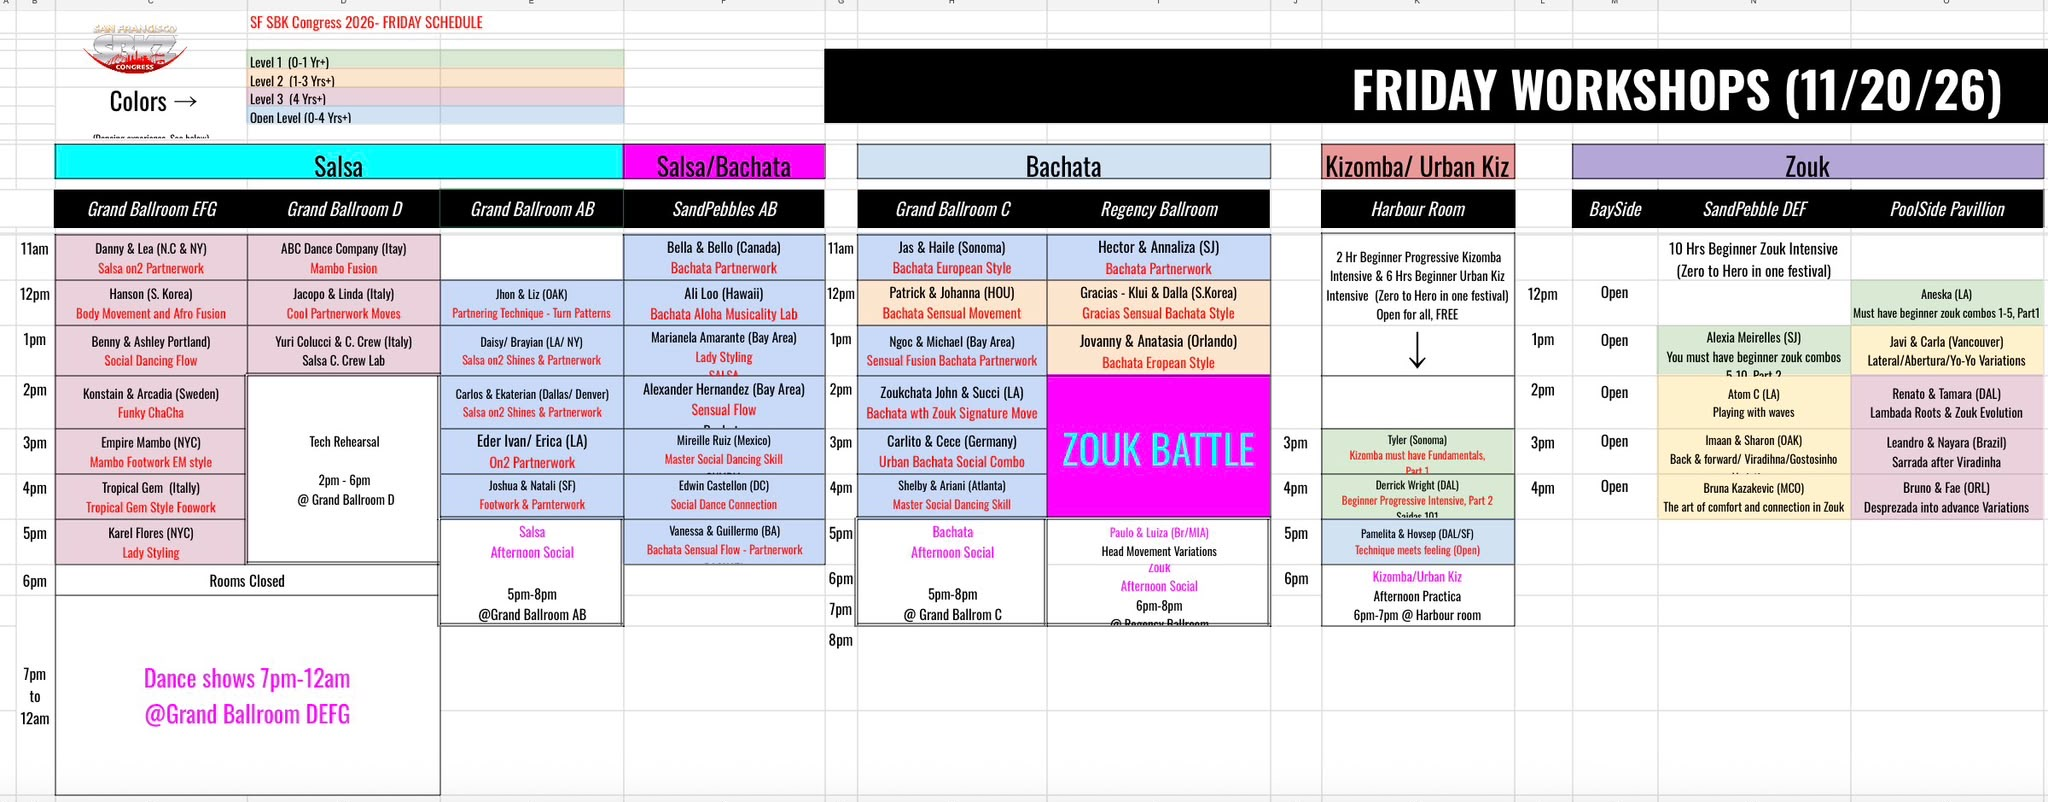
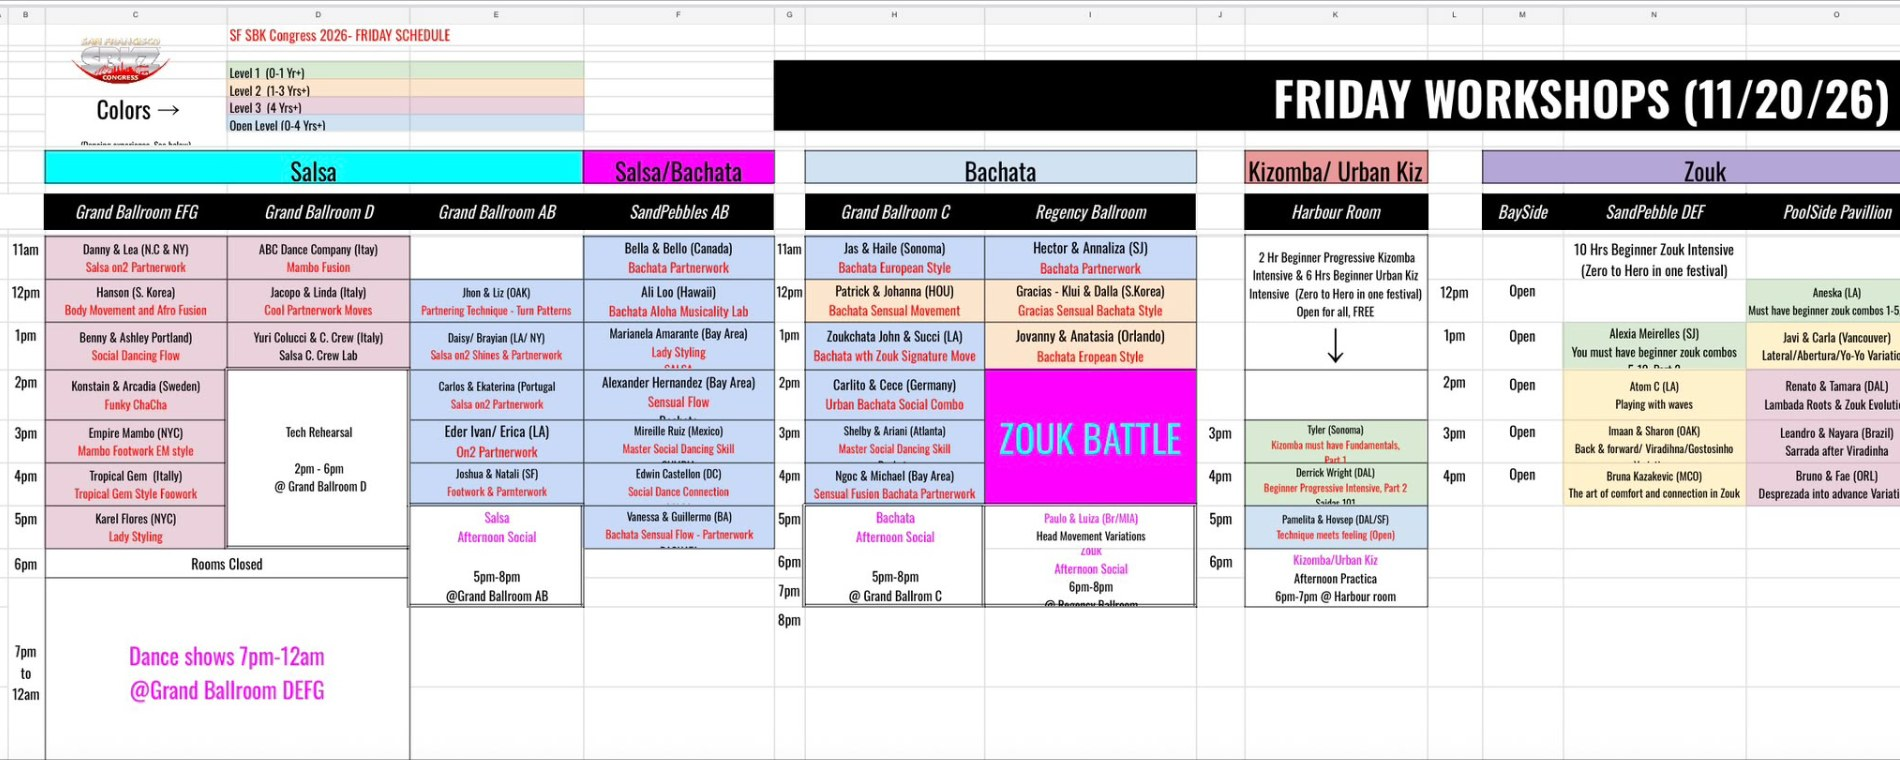
Update the workshop grid to their Nov 11 post
Carlitos & Cece's Friday class moves from 3 PM to 2 PM, so the hero
chip, the Friday card and the rehearsal note follow. Saturday salsa
gets a reshuffle (Bozzy and the 10 AM Shelby & Ariani are off; Melisa
Katilmis, Emellie Andagan and Beto & Sade's kiz intensive are on).
Sunday 2 PM in EFG is Benny / Ashley now. The linked grid images are
the new ones.

Claude-Session: https://claude.ai/code/session_016sqRktwx6A9FQGiS9zq37r

diff --git a/index.html b/index.html
@@ -466,10 +466,10 @@
   </div>
   <p class="fest-lead rv">Salsa, bachata, kizomba and Brazilian zouk, all under one roof at the Hyatt Regency SFO. Workshops from 10 AM, afternoon socials, shows every night, and the floor stays open until roughly 7 in the morning. Artists and DJs fly in from Europe, Asia and Latin America. Three competitions run alongside it.</p>
   <div class="carlitos rv">
-   <p><b>The man who rated the room is teaching in it.</b> Carlitos and Cece have two slots, both in Grand Ballroom C. Friday at 3 PM it's Urban Bachata Social Combo, and Sunday at 10 AM it's Bachata Sensual Partnerwork. He taught in Waikiki too, so he's seen both floors and the 6-8 is a real read.</p>
+   <p><b>The man who rated the room is teaching in it.</b> Carlitos and Cece have two slots, both in Grand Ballroom C. Friday at 2 PM it's Urban Bachata Social Combo, and Sunday at 10 AM it's Bachata Sensual Partnerwork. He taught in Waikiki too, so he's seen both floors and the 6-8 is a real read.</p>
   </div>
   <div class="chips rv">
-   <span class="chip">Carlitos &amp; Cece &middot; Fri 3 PM, Sun 10 AM</span>
+   <span class="chip">Carlitos &amp; Cece &middot; Fri 2 PM, Sun 10 AM</span>
    <span class="chip">Karel Flores &middot; 10-hour bootcamp</span>
    <span class="chip">Salsanama &middot; Tropical Gem, 2nd year</span>
    <span class="chip">Bachata Ultimate Showdown &middot; Sunday</span>
@@ -582,7 +582,7 @@
   <div class="open rv">
    <div class="oh">Still open</div>
    <ol class="olist">
-    <li><b>Get my rehearsal slot.</b> Rehearsal runs 2 to 6 PM every day in Grand Ballroom D, and the pass is bought, so I can ask for one. If mine lands Friday it runs into Carlitos and Cece at 3.</li>
+    <li><b>Get my rehearsal slot.</b> Rehearsal runs 2 to 6 PM every day in Grand Ballroom D, and the pass is bought, so I can ask for one. If mine lands Friday it runs into Carlitos and Cece at 2.</li>
     <li><b>Add the Thursday pre-party, $26.60.</b> Doors at 9 PM, three rooms, and it's the first read the floor gets on me.</li>
     <li><b>Ask the Hyatt to move Friday onto the group rate if a block room opens.</b> Friday is $391 against $163 the other nights. Switching it saves about $293 with tax and the destination fee.</li>
     <li><b>Room share or solo.</b> It&rsquo;s 2 Queen Beds, so a roommate cuts the hotel to about $517.</li>
@@ -662,7 +662,7 @@
     <div class="dt">Nov 20</div>
     <ul>
      <li>Workshops 11 AM to 6 PM</li>
-     <li>Carlitos &amp; Cece, 3 PM<em>Urban Bachata Social Combo, Grand Ballroom C</em></li>
+     <li>Carlitos &amp; Cece, 2 PM<em>Urban Bachata Social Combo, Grand Ballroom C</em></li>
      <li>Zouk Battle, 2 to 5 PM<em>Regency Ballroom</em></li>
      <li>Afternoon socials, 5 to 8 PM<em>Bachata in Grand C, salsa in Grand AB</em></li>
      <li>Shows, 7 PM to midnight<em>Grand Ballroom DEFG</em></li>
@@ -750,16 +750,16 @@
 <div class="c k-L3" style="grid-area:5/3/6/4"><b>Yuri Colucci &amp; C. Crew (Italy)</b><span>Salsa C. Crew Lab</span><i class="rm">Grand Ballroom D &middot; Salsa</i></div>
 <div class="c k-Op" style="grid-area:5/4/6/5"><b>Daisy / Brayian (LA / NY)</b><span>Salsa On2 Shines &amp; Partnerwork</span><i class="rm">Grand Ballroom AB &middot; Salsa</i></div>
 <div class="c k-Op" style="grid-area:5/5/6/6"><b>Marianela Amarante (Bay Area)</b><span>Lady Styling, salsa</span><i class="rm">SandPebbles AB &middot; Salsa &amp; Bachata</i></div>
-<div class="c k-Op" style="grid-area:5/6/6/7"><b>Ngoc &amp; Michael (Bay Area)</b><span>Sensual Fusion Bachata Partnerwork</span><i class="rm">Grand Ballroom C &middot; Bachata</i></div>
+<div class="c k-Op" style="grid-area:5/6/6/7"><b>Zoukchata John &amp; Succi (LA)</b><span>Bachata with Zouk Signature Move</span><i class="rm">Grand Ballroom C &middot; Bachata</i></div>
 <div class="c k-L2" style="grid-area:5/7/6/8"><b>Jovanny &amp; Anatasia (Orlando)</b><span>Bachata European Style</span><i class="rm">Regency Ballroom &middot; Bachata</i></div>
 <div class="c k-L1" style="grid-area:5/10/6/11"><b>Alexia Meirelles (SJ)</b><span>Must have beginner zouk combos 5-10, Part 2</span><i class="rm">SandPebble DEF &middot; Zouk</i></div>
 <div class="c k-U" style="grid-area:5/11/6/12"><b>Javi &amp; Carla (Vancouver)</b><span>Lateral / Abertura / Yo-Yo Variations</span><i class="rm">PoolSide Pavilion &middot; Zouk</i></div>
 <div class="wg-t" style="grid-area:6/1/7/2">2 PM</div>
 <div class="c k-L3" style="grid-area:6/2/7/3"><b>Konstain &amp; Arcadia (Sweden)</b><span>Funky ChaCha</span><i class="rm">Grand Ballroom EFG &middot; Salsa</i></div>
 <div class="c k-reh" style="grid-area:6/3/10/4"><b>Tech rehearsal</b><span>2 to 6 PM</span><i class="rm">Grand Ballroom D &middot; Salsa</i></div>
-<div class="c k-Op" style="grid-area:6/4/7/5"><b>Carlos &amp; Ekaterian (Dallas / Denver)</b><span>Salsa On2 Shines &amp; Partnerwork</span><i class="rm">Grand Ballroom AB &middot; Salsa</i></div>
+<div class="c k-Op" style="grid-area:6/4/7/5"><b>Carlos &amp; Ekaterina (Portugal)</b><span>Salsa On2 Partnerwork</span><i class="rm">Grand Ballroom AB &middot; Salsa</i></div>
 <div class="c k-Op" style="grid-area:6/5/7/6"><b>Alexander Hernandez (Bay Area)</b><span>Sensual Flow, bachata</span><i class="rm">SandPebbles AB &middot; Salsa &amp; Bachata</i></div>
-<div class="c k-Op" style="grid-area:6/6/7/7"><b>Zoukchata John &amp; Succi (LA)</b><span>Bachata with Zouk Signature Move</span><i class="rm">Grand Ballroom C &middot; Bachata</i></div>
+<div class="c k-mine" style="grid-area:6/6/7/7"><b>Carlitos &amp; Cece (Germany)</b><span>Urban Bachata Social Combo</span><i class="rm">Grand Ballroom C &middot; Bachata</i></div>
 <div class="c k-comp" style="grid-area:6/7/9/8"><b>Zouk Battle</b><span>2 to 5 PM</span><i class="rm">Regency Ballroom &middot; Bachata</i></div>
 <div class="c k-U" style="grid-area:6/10/7/11"><b>Atom C (LA)</b><span>Playing with Waves</span><i class="rm">SandPebble DEF &middot; Zouk</i></div>
 <div class="c k-L3" style="grid-area:6/11/7/12"><b>Renato &amp; Tamara (DAL)</b><span>Lambada Roots &amp; Zouk Evolution</span><i class="rm">PoolSide Pavilion &middot; Zouk</i></div>
@@ -767,7 +767,7 @@
 <div class="c k-L3" style="grid-area:7/2/8/3"><b>Empire Mambo (NYC)</b><span>Mambo Footwork, EM style</span><i class="rm">Grand Ballroom EFG &middot; Salsa</i></div>
 <div class="c k-Op" style="grid-area:7/4/8/5"><b>Eder Ivan / Erica (LA)</b><span>On2 Partnerwork</span><i class="rm">Grand Ballroom AB &middot; Salsa</i></div>
 <div class="c k-Op" style="grid-area:7/5/8/6"><b>Mireille Ruiz (Mexico)</b><span>Master Social Dancing Skill</span><i class="rm">SandPebbles AB &middot; Salsa &amp; Bachata</i></div>
-<div class="c k-mine" style="grid-area:7/6/8/7"><b>Carlitos &amp; Cece (Germany)</b><span>Urban Bachata Social Combo</span><i class="rm">Grand Ballroom C &middot; Bachata</i></div>
+<div class="c k-Op" style="grid-area:7/6/8/7"><b>Shelby &amp; Ariani (Atlanta)</b><span>Master Social Dancing Skill</span><i class="rm">Grand Ballroom C &middot; Bachata</i></div>
 <div class="c k-L1" style="grid-area:7/8/8/9"><b>Tyler (Sonoma)</b><span>Kizomba must-have Fundamentals, Part 1</span><i class="rm">Harbour Room &middot; Kizomba</i></div>
 <div class="c k-U" style="grid-area:7/10/8/11"><b>Imaan &amp; Sharon (OAK)</b><span>Back &amp; Forward / Viradinha / Gostosinho</span><i class="rm">SandPebble DEF &middot; Zouk</i></div>
 <div class="c k-L3" style="grid-area:7/11/8/12"><b>Leandro &amp; Nayara (Brazil)</b><span>Sarrada after Viradinha</span><i class="rm">PoolSide Pavilion &middot; Zouk</i></div>
@@ -775,7 +775,7 @@
 <div class="c k-L3" style="grid-area:8/2/9/3"><b>Tropical Gem (Italy)</b><span>Tropical Gem Style Footwork</span><i class="rm">Grand Ballroom EFG &middot; Salsa</i></div>
 <div class="c k-Op" style="grid-area:8/4/9/5"><b>Joshua &amp; Natali (SF)</b><span>Footwork &amp; Partnerwork</span><i class="rm">Grand Ballroom AB &middot; Salsa</i></div>
 <div class="c k-Op" style="grid-area:8/5/9/6"><b>Edwin Castellon (DC)</b><span>Social Dance Connection</span><i class="rm">SandPebbles AB &middot; Salsa &amp; Bachata</i></div>
-<div class="c k-Op" style="grid-area:8/6/9/7"><b>Shelby &amp; Ariani (Atlanta)</b><span>Master Social Dancing Skill</span><i class="rm">Grand Ballroom C &middot; Bachata</i></div>
+<div class="c k-Op" style="grid-area:8/6/9/7"><b>Ngoc &amp; Michael (Bay Area)</b><span>Sensual Fusion Bachata Partnerwork</span><i class="rm">Grand Ballroom C &middot; Bachata</i></div>
 <div class="c k-L1" style="grid-area:8/8/9/9"><b>Derrick Wright (DAL)</b><span>Beginner Progressive Intensive, Part 2. Saidas 101</span><i class="rm">Harbour Room &middot; Kizomba</i></div>
 <div class="c k-U" style="grid-area:8/10/9/11"><b>Bruna Kazakevic (MCO)</b><span>The Art of Comfort and Connection in Zouk</span><i class="rm">SandPebble DEF &middot; Zouk</i></div>
 <div class="c k-L3" style="grid-area:8/11/9/12"><b>Bruno &amp; Fae (ORL)</b><span>Desprezada into Advanced Variations</span><i class="rm">PoolSide Pavilion &middot; Zouk</i></div>
@@ -811,8 +811,8 @@
 <div class="wg-r" style="grid-area:2/11/3/12">PoolSide Pavilion</div>
 <div class="wg-t" style="grid-area:3/1/4/2">10 AM</div>
 <div class="c k-L2" style="grid-area:3/2/4/3"><b>Jeio (Korea)</b><span>Afro Fusion Shines</span><i class="rm">Grand Ballroom EFG &middot; Salsa</i></div>
-<div class="c k-L2" style="grid-area:3/3/4/4"><b>Iroko (Tampa)</b><span>Footwork &amp; Body Movement</span><i class="rm">Grand Ballroom D &middot; Salsa</i></div>
-<div class="c k-Op" style="grid-area:3/5/4/6"><b>Shelby &amp; Ariani (Atlanta)</b><span>Master Social Dancing Skill, bachata</span><i class="rm">SandPebbles AB &middot; Salsa &amp; Bachata</i></div>
+<div class="c k-Op" style="grid-area:3/3/4/4"><b>Cristian Vergari (Italy)</b><span>Mambo Fusion &amp; Body Movement</span><i class="rm">Grand Ballroom D &middot; Salsa</i></div>
+<div class="c k-Op" style="grid-area:3/4/4/5"><b>Eric / Yolieth (Mexico)</b><span>Partnering Technique</span><i class="rm">Grand Ballroom AB &middot; Salsa</i></div>
 <div class="c k-Op" style="grid-area:3/6/4/7"><b>Johnathan &amp; Jeniffer (SA)</b><span>Esta Noche Footwork &amp; Partnerwork</span><i class="rm">Grand Ballroom C &middot; Bachata</i></div>
 <div class="c k-L2" style="grid-area:3/7/4/8"><b>Mike &amp; Erica (LA)</b><span>Urban Bachata (FT &amp; Partnerwork)</span><i class="rm">Regency Ballroom &middot; Bachata</i></div>
 <div class="c k-x" style="grid-area:3/9/5/10"><b>10 hr beginner zouk intensive</b><span>Zero to Hero in one festival. Open for all, free.</span><i class="rm">BaySide &middot; Zouk</i></div>
@@ -825,7 +825,7 @@
 <div class="c k-L2" style="grid-area:4/7/5/8"><b>Demetrio &amp; Danila (Italy)</b><span>Bachata Footwork &amp; Partnerwork</span><i class="rm">Regency Ballroom &middot; Bachata</i></div>
 <div class="wg-t" style="grid-area:5/1/6/2">12 PM</div>
 <div class="c k-L3" style="grid-area:5/2/6/3"><b>Diego &amp; Yaritza (NYC)</b><span>Palladium Mambo Shines</span><i class="rm">Grand Ballroom EFG &middot; Salsa</i></div>
-<div class="c k-Op" style="grid-area:5/3/6/4"><b>Hanson &amp; Hwara (Korea)</b><span>Salsa Footwork &amp; Combo</span><i class="rm">Grand Ballroom D &middot; Salsa</i></div>
+<div class="c k-L3" style="grid-area:5/3/6/4"><b>Inwoo (S. Korea)</b><span>Mambo Footwork</span><i class="rm">Grand Ballroom D &middot; Salsa</i></div>
 <div class="c k-Op" style="grid-area:5/4/6/5"><b>Amelia Munoz (Los Angeles)</b><span>Lady Styling</span><i class="rm">Grand Ballroom AB &middot; Salsa</i></div>
 <div class="c k-L2" style="grid-area:5/5/6/6"><b>David Princess / Jayven (LA)</b><span>Footwork / Partnerwork On2</span><i class="rm">SandPebbles AB &middot; Salsa &amp; Bachata</i></div>
 <div class="c k-L2" style="grid-area:5/6/6/7"><b>Gracias: Klui &amp; Dalla (S. Korea)</b><span>Gracias Sensual Bachata Style</span><i class="rm">Grand Ballroom C &middot; Bachata</i></div>
@@ -833,8 +833,8 @@
 <div class="c k-n" style="grid-area:5/10/6/11"><b>Richele Marie (SD)</b><span>Must-have combos for new zouk dancers</span><i class="rm">SandPebble DEF &middot; Zouk</i></div>
 <div class="c k-U" style="grid-area:5/11/6/12"><b>Alain &amp; Elijah (WI)</b><span>Intro to Head Movement &amp; Piao (open level)</span><i class="rm">PoolSide Pavilion &middot; Zouk</i></div>
 <div class="wg-t" style="grid-area:6/1/7/2">1 PM</div>
-<div class="c k-L2" style="grid-area:6/2/7/3"><b>Yolieth Baranggan (Texas)</b><span>Salsa Fusion</span><i class="rm">Grand Ballroom EFG &middot; Salsa</i></div>
-<div class="c k-L3" style="grid-area:6/3/7/4"><b>Inwoo (S. Korea)</b><span>Mambo Footwork</span><i class="rm">Grand Ballroom D &middot; Salsa</i></div>
+<div class="c k-Op" style="grid-area:6/2/7/3"><b>Hanson &amp; Hwara (Korea)</b><span>Salsa Footwork &amp; Combo</span><i class="rm">Grand Ballroom EFG &middot; Salsa</i></div>
+<div class="c k-L2" style="grid-area:6/3/7/4"><b>Iroko (Tampa)</b><span>Footwork &amp; Body Movement</span><i class="rm">Grand Ballroom D &middot; Salsa</i></div>
 <div class="c k-Op" style="grid-area:6/4/7/5"><b>Ilias / Sophia (Greece / Morocco)</b><span>Social Dancing Skill</span><i class="rm">Grand Ballroom AB &middot; Salsa</i></div>
 <div class="c k-Op" style="grid-area:6/5/7/6"><b>Joel / Lucia, Motion On2 (LA)</b><span>Bachata Moderna Footwork</span><i class="rm">SandPebbles AB &middot; Salsa &amp; Bachata</i></div>
 <div class="c k-L2" style="grid-area:6/6/7/7"><b>Jovanny &amp; Anatasia (Orlando)</b><span>Bachata Sensual, Sensual Movement</span><i class="rm">Grand Ballroom C &middot; Bachata</i></div>
@@ -844,20 +844,20 @@
 <div class="c k-U" style="grid-area:6/10/7/11"><b>Bruno &amp; Fae (ORL)</b><span>Intro to Toalha, Part 1</span><i class="rm">SandPebble DEF &middot; Zouk</i></div>
 <div class="c k-L3" style="grid-area:6/11/7/12"><b>Evelyn &amp; Derrick (SF)</b><span>Circular Patterns &amp; Space Navigation</span><i class="rm">PoolSide Pavilion &middot; Zouk</i></div>
 <div class="wg-t" style="grid-area:7/1/8/2">2 PM</div>
-<div class="c k-L3" style="grid-area:7/2/8/3"><b>Jacopo &amp; Linda (Italy)</b><span>Mambo with Afro Shines</span><i class="rm">Grand Ballroom EFG &middot; Salsa</i></div>
+<div class="c k-L2" style="grid-area:7/2/8/3"><b>Melisa Katilmis (Turkey)</b><span>Salsa Fusion</span><i class="rm">Grand Ballroom EFG &middot; Salsa</i></div>
 <div class="c k-reh" style="grid-area:7/3/11/4"><b>Tech rehearsal</b><span>2 to 6 PM</span><i class="rm">Grand Ballroom D &middot; Salsa</i></div>
 <div class="c k-Op" style="grid-area:7/4/8/5"><b>Bryant &amp; Anita (PDX)</b><span>Salsa Romantica Style</span><i class="rm">Grand Ballroom AB &middot; Salsa</i></div>
-<div class="c k-Op" style="grid-area:7/5/8/6"><b>Ashwin &amp; Kristen (ATL)</b><span>Bachata Fusion</span><i class="rm">SandPebbles AB &middot; Salsa &amp; Bachata</i></div>
+<div class="c k-Op" style="grid-area:7/5/8/6"><b>Emellie Andagan (Sac)</b><span>Salsa On2</span><i class="rm">SandPebbles AB &middot; Salsa &amp; Bachata</i></div>
 <div class="c k-Op" style="grid-area:7/6/8/7"><b>Roxy Vega (Mexico)</b><span>Fun Bachata Choreo</span><i class="rm">Grand Ballroom C &middot; Bachata</i></div>
 <div class="c k-comp" style="grid-area:7/7/10/8"><b>Salsanama Solo</b><span>2 to 5 PM</span><i class="rm">Regency Ballroom &middot; Bachata</i></div>
-<div class="c k-L1" style="grid-area:7/8/8/9"><b>Kizomba intensive</b><span>Teacher&#x27;s name is covered on their screenshot</span><i class="rm">Harbour Room &middot; Kizomba</i></div>
+<div class="c k-L1" style="grid-area:7/8/8/9"><b>Beto &amp; Sade (MEX / US)</b><span>Kizomba Fundamentals for Social Dancing (intensive)</span><i class="rm">Harbour Room &middot; Kizomba</i></div>
 <div class="c k-L1" style="grid-area:7/9/8/10"><b>Aneska (LA)</b><span>Beginner Intensive Series: Soltinho / Variations</span><i class="rm">BaySide &middot; Zouk</i></div>
 <div class="c k-U" style="grid-area:7/10/8/11"><b>Evelyn &amp; Derrick (SF)</b><span>Make It Flow in Zouk</span><i class="rm">SandPebble DEF &middot; Zouk</i></div>
 <div class="c k-L3" style="grid-area:7/11/8/12"><b>Paulo &amp; Luiza (Br / MIA)</b><span>Head Movement Mechanics for Comfort</span><i class="rm">PoolSide Pavilion &middot; Zouk</i></div>
 <div class="wg-t" style="grid-area:8/1/9/2">3 PM</div>
-<div class="c k-L3" style="grid-area:8/2/9/3"><b>Bozzy Brother (Italy)</b><span>Salsa Explosion</span><i class="rm">Grand Ballroom EFG &middot; Salsa</i></div>
+<div class="c k-L3" style="grid-area:8/2/9/3"><b>Jacopo &amp; Linda (Italy)</b><span>Mambo with Afro Shines</span><i class="rm">Grand Ballroom EFG &middot; Salsa</i></div>
 <div class="c k-Op" style="grid-area:8/4/9/5"><b>Eder Ivan / Erica Reyna (LA)</b><span>On2 LA Style (FT &amp; Partnerwork)</span><i class="rm">Grand Ballroom AB &middot; Salsa</i></div>
-<div class="c k-Op" style="grid-area:8/5/9/6"><b>Eric / Yolieth (Mexico)</b><span>Partnering Technique</span><i class="rm">SandPebbles AB &middot; Salsa &amp; Bachata</i></div>
+<div class="c k-Op" style="grid-area:8/5/9/6"><b>Ashwin &amp; Kristen (ATL)</b><span>Bachata Fusion</span><i class="rm">SandPebbles AB &middot; Salsa &amp; Bachata</i></div>
 <div class="c k-L2" style="grid-area:8/6/9/7"><b>Jahaira &amp; Angelica (OAK)</b><span>Killer Bachata Footwork</span><i class="rm">Grand Ballroom C &middot; Bachata</i></div>
 <div class="c k-L2" style="grid-area:8/8/9/9"><b>Derrick Wright (DAL)</b><span>Beginner Progressive Intensive, Pivots and Turns</span><i class="rm">Harbour Room &middot; Kizomba</i></div>
 <div class="c k-L1" style="grid-area:8/9/9/10"><b>Renato &amp; Tamara (DAL)</b><span>Beginner Intensive Series: Gostosinho Variations</span><i class="rm">BaySide &middot; Zouk</i></div>
@@ -873,7 +873,7 @@
 <div class="c k-U" style="grid-area:9/10/10/11"><b>Bruna Kazakevic (MCO)</b><span>Body Isolation &amp; Fluid Movement</span><i class="rm">SandPebble DEF &middot; Zouk</i></div>
 <div class="c k-L3" style="grid-area:9/11/10/12"><b>Leandro &amp; Nayara (Brazil)</b><span>Spin Techniques</span><i class="rm">PoolSide Pavilion &middot; Zouk</i></div>
 <div class="wg-t" style="grid-area:10/1/11/2">5 PM</div>
-<div class="c k-Op" style="grid-area:10/2/11/3"><b>Cristian Vergari (Italy)</b><span>Mambo Fusion &amp; Body Movement</span><i class="rm">Grand Ballroom EFG &middot; Salsa</i></div>
+<div class="c k-L2" style="grid-area:10/2/11/3"><b>Yolieth Baranggan (Texas)</b><span>Salsa Fusion</span><i class="rm">Grand Ballroom EFG &middot; Salsa</i></div>
 <div class="c k-soc" style="grid-area:10/4/13/5"><b>Salsa afternoon social</b><span>5 to 8 PM</span><i class="rm">Grand Ballroom AB &middot; Salsa</i></div>
 <div class="c k-Op" style="grid-area:10/5/11/6"><b>Jewel Huges (Phoenix)</b><span>Lady Styling, salsa</span><i class="rm">SandPebbles AB &middot; Salsa &amp; Bachata</i></div>
 <div class="c k-soc" style="grid-area:10/6/13/7"><b>Bachata afternoon social</b><span>5 to 8 PM</span><i class="rm">Grand Ballroom C &middot; Bachata</i></div>
@@ -933,7 +933,7 @@
 <div class="c k-U" style="grid-area:6/10/7/11"><b>Evelyn &amp; Derrick (SF)</b><span>Earth, Wind, Ocean and Fire</span><i class="rm">SandPebble DEF &middot; Zouk</i></div>
 <div class="c k-L3" style="grid-area:6/11/7/12"><b>Nelly Caldeira (SF)</b><span>Deep Dive: Soltinho &amp; Viradinha</span><i class="rm">PoolSide Pavilion &middot; Zouk</i></div>
 <div class="wg-t" style="grid-area:7/1/8/2">2 PM</div>
-<div class="c k-L2" style="grid-area:7/2/8/3"><b>Bozzy Academy (Italy)</b><span>Bozzy Style Footwork / Partnerwork</span><i class="rm">Grand Ballroom EFG &middot; Salsa</i></div>
+<div class="c k-L2" style="grid-area:7/2/8/3"><b>Benny / Ashley (Seattle)</b><span>Salsa On2 Footwork / Partnerwork</span><i class="rm">Grand Ballroom EFG &middot; Salsa</i></div>
 <div class="c k-reh" style="grid-area:7/3/11/4"><b>Tech rehearsal</b><span>2 to 6 PM</span><i class="rm">Grand Ballroom D &middot; Salsa</i></div>
 <div class="c k-Op" style="grid-area:7/4/8/5"><b>Daniel &amp; Kathryn (DEN)</b><span>Denver New Style Shine &amp; Partnerwork On2</span><i class="rm">Grand Ballroom AB &middot; Salsa</i></div>
 <div class="c k-Op" style="grid-area:7/5/8/6"><b>Marisa Craig (SF)</b><span>Salsa Freedom in Social Dancing</span><i class="rm">SandPebbles AB &middot; Salsa &amp; Bachata</i></div>
@@ -971,7 +971,7 @@
 </div>
    </div>
   </div>
-  <p class="sched-note rv">Some of their cells cut off mid-sentence, so a few titles end early. On Saturday someone's cursor covers the 2 PM kizomba teacher. The original images are under each day above.</p>
+  <p class="sched-note rv">Some of their cells cut off mid-sentence, so a few titles end early. Updated Nov 11 from the grids they just posted. Their images are under each day above.</p>
 
   <h3 class="sch-h rv">Three competitions, 2 to 5 PM</h3>
   <div class="comp rv">
